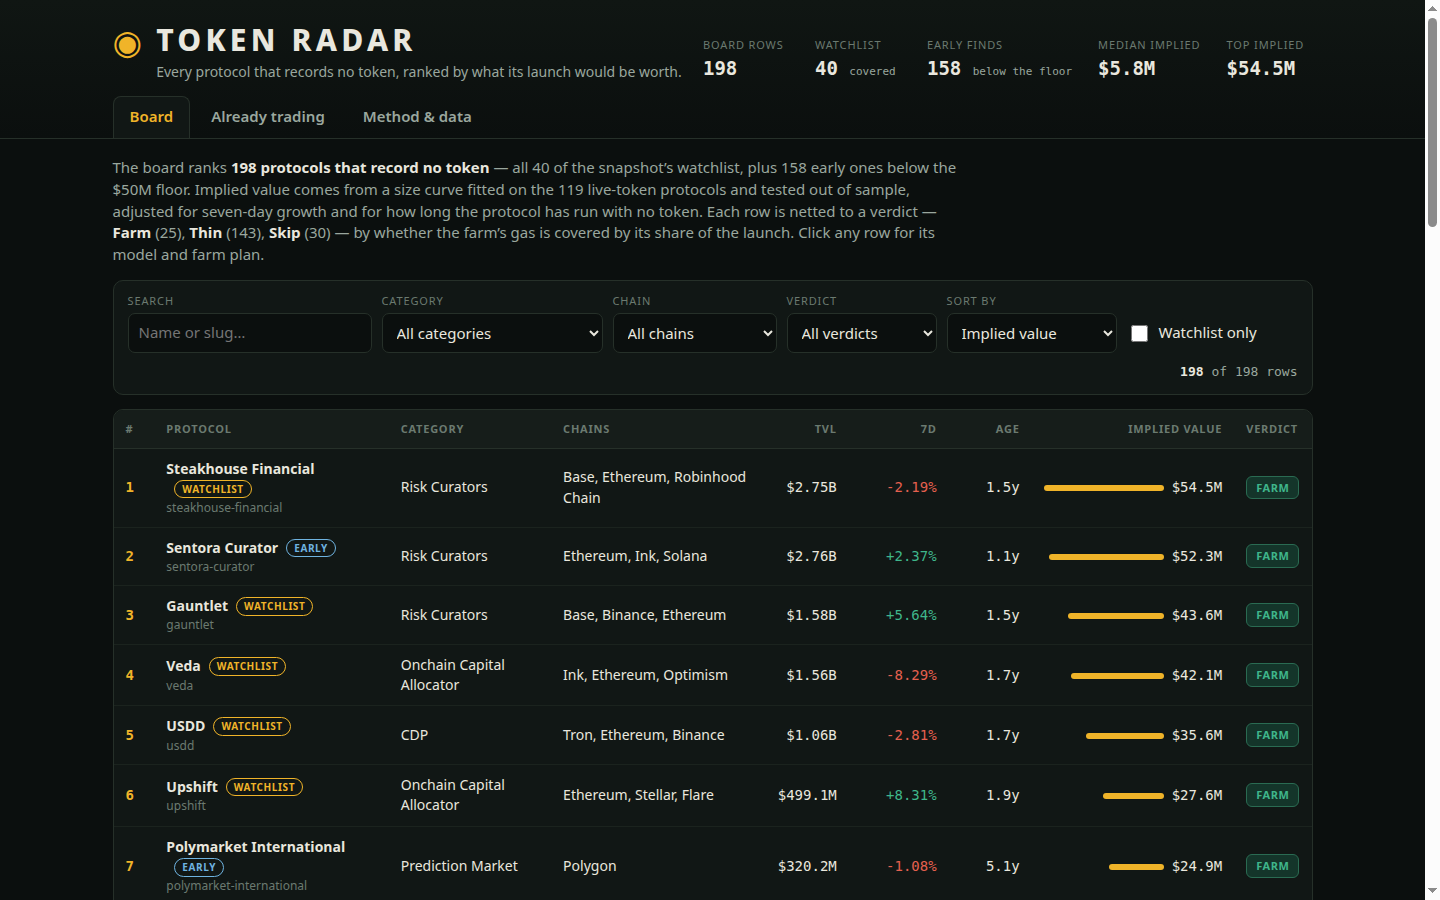
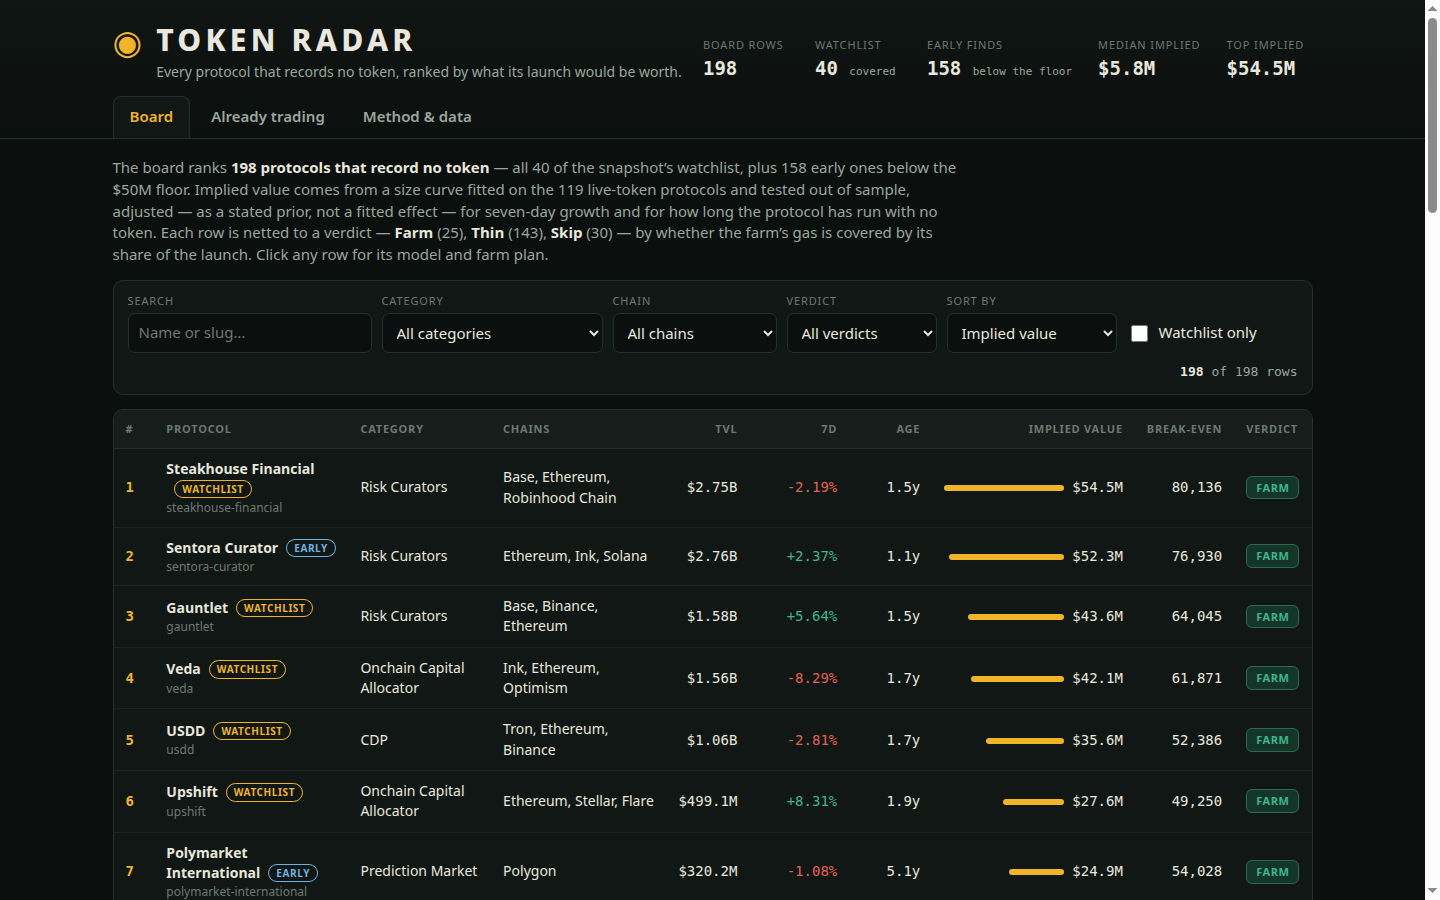
Token Radar v3: full-model OOS disclosure, category farm branches, break-even column
B1: oosTest scores the full shipped model (curve x growth x maturity)
on the same 8 splits — 85.8% mean error vs 85.5% curve-only vs 93.5%
medians — with a Full model column and an honest sentence in the
method tab, README and board lede. No model constant changed.
B2: actionFor/secondActionFor branches for Basis Trading, Chain,
CeDeFi, Farm, Anchor/Decentralized BTC, OTC Marketplace, Prediction,
Leveraged Farming, Payments, Card, Insurance, Governance, Indexes;
0 rows hit either generic fallback (was 21/29). Single-chain step 4
no longer assumes a points program.
O1: Break-even column on the board. O2: math-table values nowrap.
Screenshots 1-3 re-taken at 1440x900; board fits with no scroll.

diff --git a/lib/model.ts b/lib/model.ts
@@ -202,6 +202,7 @@ export interface OosSplit {
   fit_n: number;
   test_n: number;
   curve_err_pct: number;
+  full_err_pct: number;
   median_err_pct: number;
 }
 
@@ -209,6 +210,7 @@ export interface OosSplit {
 export interface OosTest {
   splits: OosSplit[];
   curve_mean_pct: number;
+  full_mean_pct: number;
   median_mean_pct: number;
 }
 
@@ -355,12 +357,14 @@ function slugHash(slug: string): number {
 /**
  * The out-of-sample test: eight deterministic splits of the live tokens (four moduli,
  * both parities). Each split fits the size curve on its fit half and the category-median
- * multiple on the same half, then scores both on the test half by median absolute error
- * against the market caps the market itself set. The curve wins on seven of the eight
- * splits of this snapshot and on average; the method tab prints the whole table so the
- * claim can be checked.
+ * multiple on the same half, then scores the curve, the full shipped model (curve with
+ * the growth and maturity multipliers applied) and the medians on the test half by
+ * median absolute error against the market caps the market itself set. The curve wins
+ * on seven of the eight splits of this snapshot and on average; the method tab prints
+ * the whole table so the claim can be checked — including the full-model column, which
+ * shows the multipliers reorder the board on judgement, not on a measured edge.
  */
-export function oosTest(snapshot: Snapshot): OosTest {
+export function oosTest(snapshot: Snapshot, model: ModelConstants = MODEL): OosTest {
   const live = liveForCurve(snapshot);
   const splits: OosSplit[] = [];
   for (const k of [2, 3, 4, 5]) {
@@ -379,10 +383,16 @@ export function oosTest(snapshot: Snapshot): OosTest {
       const catMed = new Map<string, number>();
       for (const [c, ratios] of byCat) if (ratios.length >= 3) catMed.set(c, median(ratios));
       const curveErrs: number[] = [];
+      const fullErrs: number[] = [];
       const medErrs: number[] = [];
       for (const p of test) {
         const curvePred = Math.exp(a + b * Math.log(p.tvl_usd));
         curveErrs.push(Math.abs(curvePred - p.mcap_usd!) / p.mcap_usd!);
+        const fullPred =
+          curvePred *
+          growthMultiplier(p.change_7d, model) *
+          maturityMultiplier(ageDays(snapshot.as_of, p.listed_at), model);
+        fullErrs.push(Math.abs(fullPred - p.mcap_usd!) / p.mcap_usd!);
         const medPred = p.tvl_usd * (catMed.get(p.category ?? 'Uncategorised') ?? globalMed);
         medErrs.push(Math.abs(medPred - p.mcap_usd!) / p.mcap_usd!);
       }
@@ -391,6 +401,7 @@ export function oosTest(snapshot: Snapshot): OosTest {
         fit_n: fit.length,
         test_n: test.length,
         curve_err_pct: round1(100 * median(curveErrs)),
+        full_err_pct: round1(100 * median(fullErrs)),
         median_err_pct: round1(100 * median(medErrs)),
       });
     }
@@ -399,6 +410,7 @@ export function oosTest(snapshot: Snapshot): OosTest {
   return {
     splits,
     curve_mean_pct: round1(mean(splits.map((s) => s.curve_err_pct))),
+    full_mean_pct: round1(mean(splits.map((s) => s.full_err_pct))),
     median_mean_pct: round1(mean(splits.map((s) => s.median_err_pct))),
   };
 }
@@ -406,6 +418,21 @@ export function oosTest(snapshot: Snapshot): OosTest {
 /** The curve value one protocol gets, before the growth and maturity multipliers. */
 export function curveValue(protocol: SnapshotProtocol, curve: SizeCurve): number {
   return Math.exp(curve.a + curve.b * Math.log(protocol.tvl_usd));
+}
+
+/** The growth multiplier: the 7-day TVL change, clamped, at half weight. */
+export function growthMultiplier(change7d: number | null, model: ModelConstants = MODEL): number {
+  const growthPct = Math.min(model.growth_cap, Math.max(model.growth_floor, finite(change7d, 0)));
+  return 1 + (growthPct / 100) * model.growth_weight;
+}
+
+/** The maturity multiplier: how long the protocol has run with no token. */
+export function maturityMultiplier(age: number | null, model: ModelConstants = MODEL): number {
+  const ageForModel = age ?? model.unknown_age_days;
+  return (
+    model.maturity_floor +
+    (Math.min(Math.max(ageForModel, 0), model.maturity_days) / model.maturity_days) * model.maturity_range
+  );
 }
 
 /** The multipliers and the implied value one protocol gets under `model`. */
@@ -423,12 +450,9 @@ export function impliedValue(
   age: number | null;
 } {
   const age = ageDays(asOf, protocol.listed_at);
-  const rawGrowth = finite(protocol.change_7d, 0);
-  const growthPct = Math.min(model.growth_cap, Math.max(model.growth_floor, rawGrowth));
-  const growthMult = 1 + (growthPct / 100) * model.growth_weight;
-  const ageForModel = age ?? model.unknown_age_days;
-  const maturityMult =
-    model.maturity_floor + (Math.min(Math.max(ageForModel, 0), model.maturity_days) / model.maturity_days) * model.maturity_range;
+  const growthPct = Math.min(model.growth_cap, Math.max(model.growth_floor, finite(protocol.change_7d, 0)));
+  const growthMult = growthMultiplier(protocol.change_7d, model);
+  const maturityMult = maturityMultiplier(age, model);
   const curveValueUsd = curveValue(protocol, curve);
   const implied = Math.max(1, Math.round(curveValueUsd * growthMult * maturityMult));
   return { implied, curveValueUsd, growthPct, growthMult, maturityMult, age };
@@ -584,6 +608,20 @@ function actionFor(p: SnapshotProtocol, capital: number, chain: string): string 
     return `Run $${capital} through ${name}'s private transfer flow on ${chain} once, using the wallet you farm with.`;
   if (c.includes('payment') || c.includes('card'))
     return `Spend $${capital} through ${name} on ${chain} in two separate transactions a week apart.`;
+  if (c.includes('basis trading'))
+    return `Open a $${capital} delta-neutral basis position through ${name} on ${chain}: long spot, short the perp it hedges against, and hold both legs.`;
+  if (c.includes('chain'))
+    return `Bridge $${capital} of USDC onto ${name} on ${chain} and use it in the chain's own leading app, keeping the funds on-chain.`;
+  if (c.includes('cedefi'))
+    return `Deposit $${capital} of USDC into ${name}'s CeDeFi vault on ${chain} and hold the vault position in the farming wallet.`;
+  if (c.includes('farm'))
+    return `Stake $${capital} of USDC in ${name}'s farm on ${chain} and keep the position open through at least one reward cycle.`;
+  if (c.includes('anchor btc') || c.includes('decentralized btc'))
+    return `Lock $${capital} of BTC with ${name} on ${chain} and hold the receipt token it issues.`;
+  if (c.includes('otc marketplace'))
+    return `Place one $${capital} OTC quote through ${name} on ${chain} and settle it in the wallet you farm with.`;
+  if (c.includes('index'))
+    return `Buy $${capital} of ${name}'s index token on ${chain} and hold it in the farming wallet.`;
   return `Deposit $${capital} of USDC into ${name} on ${chain} and keep the position open so the protocol records an active user.`;
 }
 
@@ -607,6 +645,30 @@ function secondActionFor(p: SnapshotProtocol, capital: number, chain: string): s
     return `Move $${half} into a second ${name} vault on ${chain} with a different strategy, so the wallet shows two vault positions.`;
   if (c.includes('stable') || c.includes('rwa'))
     return `Redeem $${half} of the asset back through ${name} on ${chain} after two weeks, then re-mint it to show a full cycle.`;
+  if (c.includes('prediction'))
+    return `Place a second $${half} position in a market on the opposite side, or in a market settling a different week, so the wallet shows two settled outcomes.`;
+  if (c.includes('leveraged farm'))
+    return `Swap $${half} through ${name}'s own router on ${chain} once a week, in the pool you already farm.`;
+  if (c.includes('basis trading'))
+    return `Open a second $${half} basis position through ${name} on ${chain} in a different market, so the wallet shows two basis trades.`;
+  if (c.includes('chain'))
+    return `Use the bridged funds in a second app on ${name} on ${chain} once, so the wallet shows activity in more than one of the chain's apps.`;
+  if (c.includes('cedefi'))
+    return `Deposit $${half} more into the ${name} vault on ${chain} once, so the wallet shows a second CeDeFi deposit.`;
+  if (c.includes('farm'))
+    return `Claim the farm rewards ${name} accrues on ${chain} once, and restake them instead of selling.`;
+  if (c.includes('anchor btc') || c.includes('decentralized btc'))
+    return `Lock a second $${half} of BTC with ${name} on ${chain} once, so the wallet shows two BTC locks.`;
+  if (c.includes('otc marketplace'))
+    return `Place a second $${half} OTC quote through ${name} on ${chain} once, on the other side of the book, so the wallet shows two settled quotes.`;
+  if (c.includes('payment') || c.includes('card'))
+    return `Make a second $${half} spend through ${name} on ${chain} to a different merchant a week later.`;
+  if (c.includes('insurance'))
+    return `Extend the cover by $${half} through ${name} on ${chain} once, so the wallet shows a second interaction with the policy.`;
+  if (c.includes('governance'))
+    return `Vote on a second proposal through ${name} on ${chain} once, so the wallet shows two governance interactions.`;
+  if (c.includes('index'))
+    return `Rebalance $${half} of the index position through ${name} on ${chain} once, so the wallet shows a second interaction with the index.`;
   return `Use ${name}'s second feature on ${chain} with $${half} once — a swap, a vote, a claim or a second deposit — so the wallet is not a one-action address.`;
 }
 
@@ -641,7 +703,7 @@ export function farmSteps(p: SnapshotProtocol, age: number | null): FarmStep[] {
     });
   } else {
     steps.push({
-      text: `Open the protocol's own points, quests or rewards page and complete the one task it lists for new users, using the same wallet.`,
+      text: `Open the protocol's own page for the position and confirm it shows under the farming wallet, so you know the activity is registered before the hold begins.`,
       cost: 'no fee to check',
       time: '10 minutes',
     });
@@ -726,7 +788,7 @@ export function buildRadar(
 ): { board: BoardRow[]; radar: RadarData } {
   const board = buildBoard(snapshot, model);
   const curve = buildSizeCurve(snapshot);
-  const oos = oosTest(snapshot);
+  const oos = oosTest(snapshot, model);
   const live = liveRows(snapshot);
   const excluded = excludedRows(snapshot);
   const early = board.filter((r) => !snapshot.watchlist.includes(r.slug)).length;

diff --git a/dashboard/app.js b/dashboard/app.js
@@ -170,7 +170,7 @@
     var maxImplied = DATA.rows.length ? DATA.rows[0].implied_value_usd : 1;
 
     var head =
-      '<p class="lede">The board ranks <strong>' + DATA.board_size + ' protocols that record no token</strong> — all ' + DATA.watchlist_size + ' of the snapshot&rsquo;s watchlist, plus ' + DATA.early_size + ' early ones below the $50M floor. Implied value comes from a size curve fitted on the ' + DATA.curve.n + ' live-token protocols and tested out of sample, adjusted for seven-day growth and for how long the protocol has run with no token. Each row is netted to a verdict — <strong>Farm</strong> (' + DATA.verdict_counts.Farm + '), <strong>Thin</strong> (' + DATA.verdict_counts.Thin + '), <strong>Skip</strong> (' + DATA.verdict_counts.Skip + ') — by whether the farm&rsquo;s gas is covered by its share of the launch. Click any row for its model and farm plan.</p>' +
+      '<p class="lede">The board ranks <strong>' + DATA.board_size + ' protocols that record no token</strong> — all ' + DATA.watchlist_size + ' of the snapshot&rsquo;s watchlist, plus ' + DATA.early_size + ' early ones below the $50M floor. Implied value comes from a size curve fitted on the ' + DATA.curve.n + ' live-token protocols and tested out of sample, adjusted — as a stated prior, not a fitted effect — for seven-day growth and for how long the protocol has run with no token. Each row is netted to a verdict — <strong>Farm</strong> (' + DATA.verdict_counts.Farm + '), <strong>Thin</strong> (' + DATA.verdict_counts.Thin + '), <strong>Skip</strong> (' + DATA.verdict_counts.Skip + ') — by whether the farm&rsquo;s gas is covered by its share of the launch. Click any row for its model and farm plan.</p>' +
       '<div class="filters">' +
       '<div class="field"><label for="f-q">Search</label><input id="f-q" type="search" placeholder="Name or slug…" value="' + esc(state.q) + '"></div>' +
       '<div class="field"><label for="f-cat">Category</label><select id="f-cat">' + catOpts + '</select></div>' +
@@ -208,15 +208,16 @@
         '<td class="num ' + pctCls + '">' + fmtPct(pct) + '</td>' +
         '<td class="num">' + fmtAge(r.age_days) + '</td>' +
         '<td class="num"><span class="bar" style="width:' + barW + 'px"></span>' + fmtUsd(r.implied_value_usd) + '</td>' +
+        '<td class="num">' + r.breakeven_farmers.toLocaleString('en-US') + '</td>' +
         '<td><span class="verdict ' + vCls + '">' + r.farm_verdict + '</span></td>' +
         '</tr>';
     }).join('');
-    if (!pageRows.length) body = '<tr><td colspan="9" class="empty">No protocols match these filters. Loosen the search or clear the watchlist filter.</td></tr>';
+    if (!pageRows.length) body = '<tr><td colspan="10" class="empty">No protocols match these filters. Loosen the search or clear the watchlist filter.</td></tr>';
 
     var table =
       '<div class="table-wrap"><table><thead><tr>' +
       '<th>#</th><th>Protocol</th><th>Category</th><th>Chains</th>' +
-      '<th style="text-align:right">TVL</th><th style="text-align:right">7d</th><th style="text-align:right">Age</th><th style="text-align:right">Implied value</th><th>Verdict</th>' +
+      '<th style="text-align:right">TVL</th><th style="text-align:right">7d</th><th style="text-align:right">Age</th><th style="text-align:right">Implied value</th><th style="text-align:right">Break-even</th><th>Verdict</th>' +
       '</tr></thead><tbody>' + body + '</tbody></table></div>' +
       '<div class="pager"><button id="pg-prev"' + (state.page <= 1 ? ' disabled' : '') + '>← Previous</button>' +
       '<span>Page ' + state.page + ' of ' + pages + '</span>' +
@@ -338,7 +339,7 @@
   function renderMethod() {
     var oosRows = DATA.oos.splits.map(function (s) {
       var win = s.curve_err_pct < s.median_err_pct ? ' <span class="up">curve wins</span>' : '';
-      return '<tr><td>' + esc(s.label) + '</td><td>' + s.fit_n + ' / ' + s.test_n + '</td><td>' + s.curve_err_pct.toFixed(1) + '%</td><td>' + s.median_err_pct.toFixed(1) + '%' + win + '</td></tr>';
+      return '<tr><td>' + esc(s.label) + '</td><td>' + s.fit_n + ' / ' + s.test_n + '</td><td>' + s.curve_err_pct.toFixed(1) + '%</td><td>' + s.full_err_pct.toFixed(1) + '%</td><td>' + s.median_err_pct.toFixed(1) + '%' + win + '</td></tr>';
     }).join('');
     var excluded = DATA.excluded.slice(0, 12).map(function (p) {
       return '<tr><td>' + esc(p.name) + '</td><td>' + fmtUsd(p.tvl_usd) + '</td><td>' + esc(p.reason) + '</td></tr>';
@@ -351,8 +352,8 @@
       '<p><b>Maturity.</b> How long it has run with no token: <code>0.60 + min(age, 1095) / 1095 × 0.40</code>. Age unknown counts as 365 days.</p>' +
       '<p>Nothing is hard-coded by name. The same function scores every row, and the detail view shows each row&rsquo;s own inputs — including the page recomputing the number from the snapshot figures, so the code and the board agree.</p></div>' +
       '<div class="method-block"><h2>Tested out of sample, before it was trusted</h2>' +
-      '<p>The live tokens are split eight ways by a deterministic hash of their slug. Each split fits the size curve on its fit half and the category-median multiple on the same half, then scores both on the test half by median absolute error against the market caps the market itself set. The curve wins on seven of the eight splits, and on average — mean ' + DATA.oos.curve_mean_pct.toFixed(1) + '% error against ' + DATA.oos.median_mean_pct.toFixed(1) + '% for the medians. The errors are large in absolute terms; the point is relative, and the table is the evidence.</p>' +
-      '<table class="comps"><thead><tr><th>Split</th><th>Fit / test</th><th style="text-align:right">Curve error</th><th style="text-align:right">Median-multiple error</th></tr></thead><tbody>' + oosRows + '</tbody></table></div>' +
+      '<p>The live tokens are split eight ways by a deterministic hash of their slug. Each split fits the size curve on its fit half and the category-median multiple on the same half, then scores the curve, the full model and the medians on the test half by median absolute error against the market caps the market itself set. The curve wins on seven of the eight splits, and on average — mean ' + DATA.oos.curve_mean_pct.toFixed(1) + '% error against ' + DATA.oos.median_mean_pct.toFixed(1) + '% for the medians. Scored the same way, the full model — the curve with the growth and maturity multipliers — errs ' + DATA.oos.full_mean_pct.toFixed(1) + '% on average against ' + DATA.oos.curve_mean_pct.toFixed(1) + '% for the curve alone: the multipliers reorder the board on judgement, not on a measured edge, and are stated as a prior, not a fitted effect. The errors are large in absolute terms; the point is relative, and the table is the evidence.</p>' +
+      '<table class="comps"><thead><tr><th>Split</th><th>Fit / test</th><th style="text-align:right">Curve error</th><th style="text-align:right">Full model error</th><th style="text-align:right">Median-multiple error</th></tr></thead><tbody>' + oosRows + '</tbody></table></div>' +
       '<div class="method-block"><h2>Farm economics, and the assumptions behind them</h2>' +
       '<p>Every row is netted to a verdict. The plan&rsquo;s gas is the sum of its own steps&rsquo; gas costs ($' + MODEL.gas_setup_usd + ' to set up, $' + MODEL.gas_core_usd + '–$' + MODEL.gas_core_big_usd + ' for the core position, $2–$10 for the second action, $' + MODEL.gas_weekly_usd + ' a week while it is held, $' + MODEL.gas_second_chain_usd + ' for the second chain, $' + MODEL.gas_claim_usd + ' for the claim transaction). The break-even is how many farmers can split an assumed ' + Math.round(MODEL.airdrop_share * 100) + '% of the implied value before one farmer&rsquo;s share stops covering that gas. <b>Farm</b> at ' + MODEL.verdict_farm.toLocaleString('en-US') + ' break-even farmers or more, <b>Thin</b> at ' + MODEL.verdict_thin.toLocaleString('en-US') + ' or more, <b>Skip</b> below that — ' + DATA.verdict_counts.Farm + ' Farm, ' + DATA.verdict_counts.Thin + ' Thin, ' + DATA.verdict_counts.Skip + ' Skip on this board. The ' + Math.round(MODEL.airdrop_share * 100) + '% share is an assumption, not a measurement: no snapshot can say what share a future launch distributes, and the break-even is only as good as it is. The capital a farm locks up ($50–$250 by TVL) is not counted as a cost — it comes back when the position is unwound — only the gas is spent.</p></div>' +
       '<div class="method-block"><h2>What the board leaves out, and why</h2>' +

diff --git a/dashboard/app.css b/dashboard/app.css
@@ -133,7 +133,7 @@ tbody tr.selected { background: #1d2a20; box-shadow: inset 3px 0 0 var(--amber);
 .big-label { color: var(--faint); font-size: 12px; text-transform: uppercase; letter-spacing: 0.08em; }
 .math { width: 100%; margin: 16px 0 6px; font-size: 13.5px; }
 .math td { padding: 7px 0; border-bottom: 1px solid #1b231e; }
-.math td:last-child { text-align: right; font-family: var(--mono); }
+.math td:last-child { text-align: right; font-family: var(--mono); white-space: nowrap; }
 .math tr:last-child td { border-bottom: 0; }
 .section-title { margin: 22px 0 8px; font-size: 13px; text-transform: uppercase; letter-spacing: 0.09em; color: var(--faint); }
 .steps { list-style: none; margin: 0; padding: 0; counter-reset: step; }

diff --git a/README.md b/README.md
@@ -11,7 +11,7 @@ Token Radar — every protocol that records no token, ranked by what its launch 
 `main.ts` (Node 22, standard library only) reads a sealed snapshot of every protocol DefiLlama tracks and writes a ranked board:
 
 - **198 rows** — all 40 of the snapshot's watchlist, plus 158 early pre-token protocols below the $50M floor. Nothing is hard-coded by name: the same function scores every row.
-- **Implied value, from a size curve tested out of sample** — `exp(a + b × ln(TVL)) × growth × maturity`, where `log(market cap) = a + b × log(TVL)` is fitted by least squares on the 119 live-token protocols in the snapshot. A dollar of TVL is worth less at $3B than at $5M (fitted slope ≈ 0.47), so a flat multiple would overprice the giants. Before it is trusted, the curve is tested out of sample: the live tokens are split eight ways, the curve is fitted on each fit half and scored on its test half, and the same test is run for the category-median multiple it replaces — the curve wins on seven of the eight splits and on average (mean ≈ 86% median error vs ≈ 94%). The method tab prints the whole test.
+- **Implied value, from a size curve tested out of sample** — `exp(a + b × ln(TVL)) × growth × maturity`, where `log(market cap) = a + b × log(TVL)` is fitted by least squares on the 119 live-token protocols in the snapshot. A dollar of TVL is worth less at $3B than at $5M (fitted slope ≈ 0.47), so a flat multiple would overprice the giants. Before it is trusted, the curve is tested out of sample: the live tokens are split eight ways, the curve is fitted on each fit half and scored on its test half, and the same test is run for the category-median multiple it replaces — the curve wins on seven of the eight splits and on average (mean ≈ 86% median error vs ≈ 94%). Scored the same way, the full model — the curve with the growth and maturity multipliers — errs 85.8% on average against 85.5% for the curve alone: the multipliers reorder the board on judgement, not on a measured edge, and are stated as a prior, not a fitted effect. The method tab prints the whole test.
 - **Set aside, not ranked** — 144 wrapped, staked or bridged products of tokens that already trade (WBTC, staked ETH, bridges…), versioned pools and exchange products. They are listed in the dashboard with the reason, never ranked as launches.
 - **Live tokens kept apart** — 24 protocols whose token already trades, shown with the market's own values as the board's price reference.
 - **A farm plan per row, netted to a verdict** — seven steps derived from the protocol's category, chains, TVL and age, each naming what it costs in dollars or gas and how long it takes. The plan's gas is summed, and the break-even is how many farmers can split an assumed 5% of the implied value before one farmer's share stops covering the gas: **Farm** at 25,000 break-even farmers or more, **Thin** at 6,000 or more, **Skip** below that.
